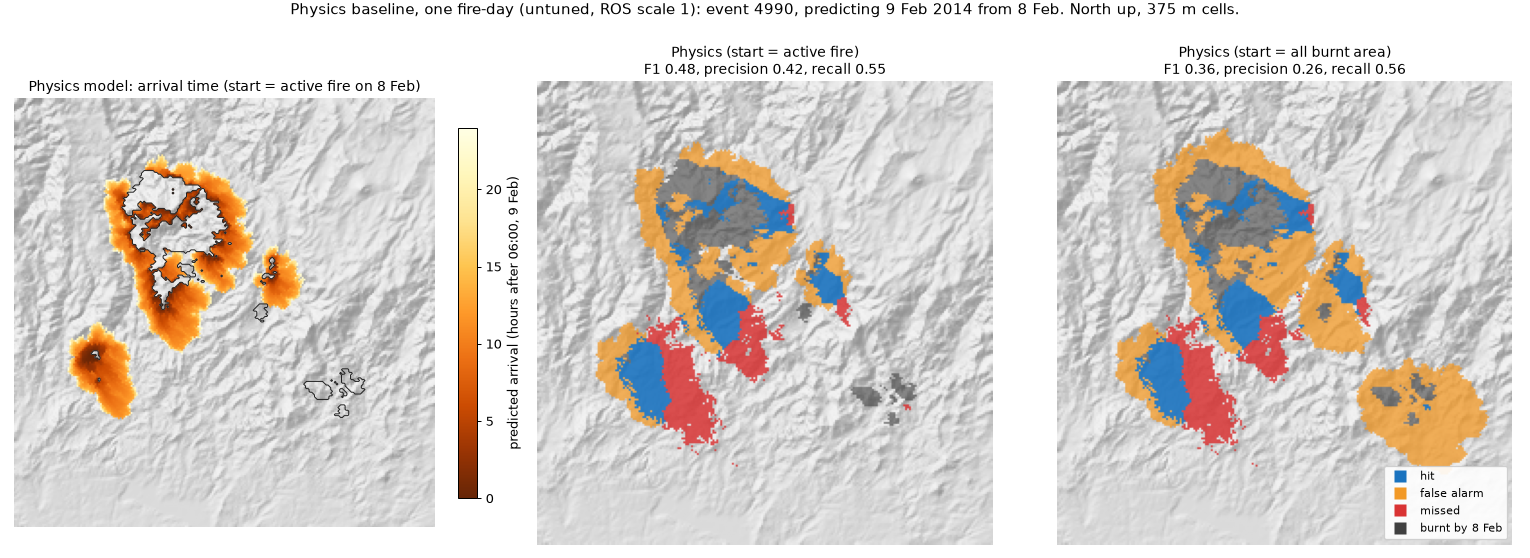
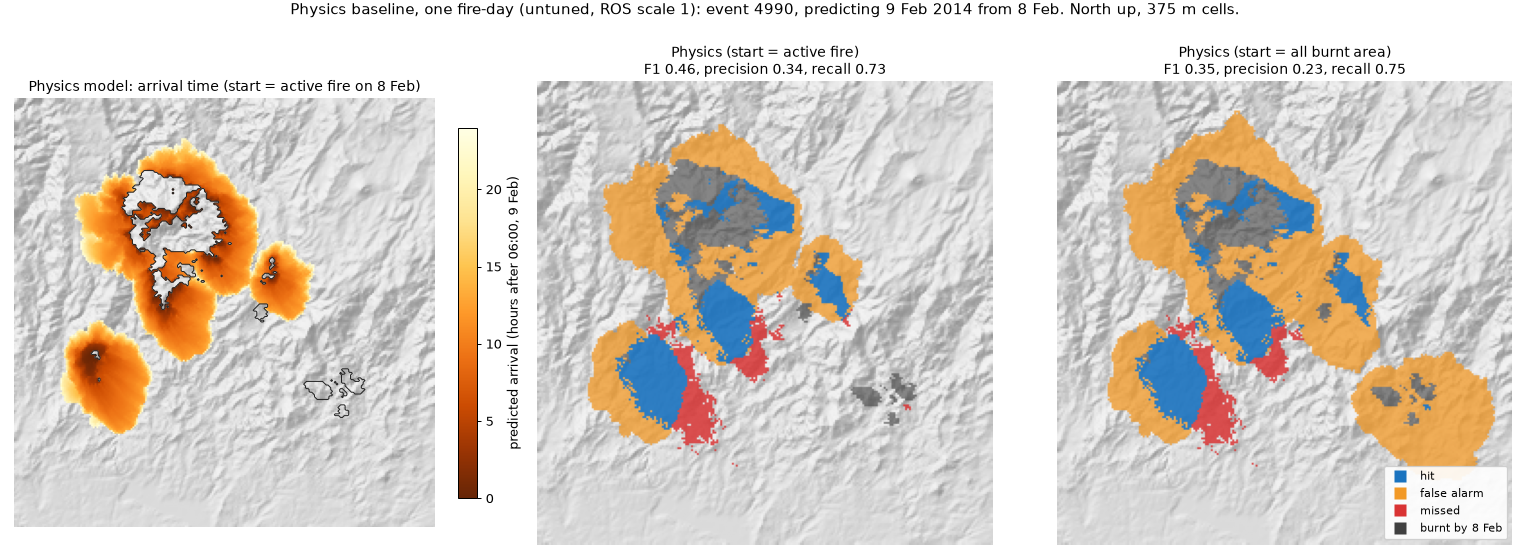
Physics: wait out zero-spread hours, precomputed directional rates, season CV
Fixes the fire being stopped permanently at cells that couldn't burn in the
current hour. Adds parallel season CV with the global ROS scale tuned on the
other folds.

diff --git a/src/vigil/physics.py b/src/vigil/physics.py
@@ -2,7 +2,9 @@
 
 Fire spreads over the 375 m grid as arrival times (a time-dependent shortest-
 path over a 16-neighbour stencil), through the 24 h of fire day D+1 (06:00 to
-06:00 local) with hourly BARRA-C2 weather. Cells reached within 24 h are the
+06:00 local) with hourly BARRA-C2 weather. When spread from a cell is
+impossible in the current hour (e.g. damp fuel at night), the fire waits for
+the next hour when it can spread. Cells reached within 24 h are the
 predicted new burn; earlier arrival = higher score (for PR-AUC).
 
 Assumptions (approved 2026-11-05, see CLAUDE.md):
@@ -35,6 +37,7 @@ Equations:
 
 Usage:
   python -m vigil.physics example     # one fire-day: predicted vs actual figure
+  python -m vigil.physics cv          # season CV, ROS scale tuned on the other folds
 """
 
 import heapq
@@ -46,7 +49,6 @@ from scipy.ndimage import map_coordinates
 
 from vigil.burn_history import CAP_YEARS, tslb
 from vigil.config import LOCAL_TZ, PROCESSED, RAW, ROOT, FIRE_DAY_START_HOUR
-from vigil.dataset import Data
 
 EPOCH = pd.Timestamp("2000-01-01")
 CELL_M = 375.0
@@ -66,7 +68,41 @@ def fuel_model(static: dict, sl) -> np.ndarray:
     return np.argmax(stack, axis=0)
 
 
-def hourly_weather(data: Data, day: int, sl) -> list[dict]:
+class Ctx:
+    """Light context for physics runs (no daily weather arrays), so several
+    worker processes fit in memory: grid geometry, fuel/terrain layers, and
+    one season of labels at a time."""
+
+    def __init__(self):
+        from pyproj import Transformer
+        from vigil.burn_history import grid
+        self.transform, self.H, self.W = grid()
+        st = xr.open_dataset(PROCESSED / "static.nc", engine="h5netcdf")
+        keep = [k for k in st.data_vars if k.startswith("fuel_")] + ["grad_x", "grad_y", "elevation"]
+        self.static = {k: st[k].values for k in keep}
+        ref = xr.open_dataset(sorted((RAW / "barra2" / "uas").glob("*.nc"))[0], engine="h5netcdf")
+        blat, blon = ref.lat.values, ref.lon.values
+        tr = self.transform
+        X, Y = np.meshgrid(tr.c + tr.a * (np.arange(self.W) + 0.5), tr.f + tr.e * (np.arange(self.H) + 0.5))
+        lon, lat = Transformer.from_crs(3111, 4326, always_xy=True).transform(X, Y)
+        self.wrow = ((lat - blat[0]) / (blat[1] - blat[0])).astype(np.float32)
+        self.wcol = ((lon - blon[0]) / (blon[1] - blon[0])).astype(np.float32)
+        x2, y2 = Transformer.from_crs(4326, 3111, always_xy=True).transform(lon, lat + 0.01)
+        self.gamma = np.arctan2(x2 - X, y2 - Y).astype(np.float32)
+        self._labels = xr.open_dataset(PROCESSED / "labels.nc", engine="h5netcdf")
+        self._season = {}
+
+    def season(self, s: int):
+        """(event, burn_day, uncertain_day) arrays for a season; keeps two seasons cached."""
+        if s not in self._season:
+            if len(self._season) >= 2:
+                self._season.pop(next(iter(self._season)))
+            L = self._labels.sel(season=s)
+            self._season[s] = (L.event.values, L.burn_day.values, L.uncertain_day.values)
+        return self._season[s]
+
+
+def hourly_weather(ctx, day: int, sl) -> list[dict]:
     """24 hourly fields (T, RH, U km/h, wind unit vector in grid axes) for fire day `day`."""
     start = (EPOCH + pd.Timedelta(days=day) + pd.Timedelta(hours=FIRE_DAY_START_HOUR)) \
         .tz_localize(LOCAL_TZ).tz_convert("UTC").tz_localize(None)
@@ -79,7 +115,7 @@ def hourly_weather(data: Data, day: int, sl) -> list[dict]:
             cache[key] = xr.open_dataset(RAW / "barra2" / v / f"{key[1]}.nc", engine="h5netcdf")[v]
         return cache[key]
 
-    rr, cc, g = data.wrow[sl], data.wcol[sl], data.gamma[sl]
+    rr, cc, g = ctx.wrow[sl], ctx.wcol[sl], ctx.gamma[sl]
     out = []
     for ts in hours:
         f = {v: map_coordinates(month(v, ts).sel(time=ts).values.astype(np.float32), [rr, cc],
@@ -126,62 +162,79 @@ def head_ros(w: dict, model: np.ndarray, tsf: np.ndarray, month: int) -> np.ndar
     return np.where(model == NONE, 0.0, ros).astype(np.float32)
 
 
-def simulate(data: Data, season: int, event: int, D: int, r0, r1, c0, c1,
-             start: str = "active", scale: float = 1.0, hours: float = 24.0):  # active: see CLAUDE.md
-    """Arrival time (h from 06:00 on D+1) per cell; inf = not reached."""
+STEPS = [(dr, dc, float(np.hypot(dr, dc)) * CELL_M, dc / np.hypot(dr, dc), -dr / np.hypot(dr, dc))
+         for dr, dc in STENCIL]
+
+
+def prepare(ctx, season: int, event: int, D: int, r0, r1, c0, c1, start: str = "active") -> dict:
+    """Everything for one fire-day that doesn't depend on the ROS scale: start
+    cells, dead burnt cells, and the spread rate (m/h, scale 1) from each cell
+    in each of the 16 stencil directions for each of the 24 hours."""
     sl = (slice(r0, r1), slice(c0, c1))
-    L = data.labels.sel(season=season)
-    ev, bd = L.event.values[sl], L.burn_day.values[sl]
-    own = ev == event
-    burnt = own & (bd > 0) & (bd <= D)
-    src = own & (bd == D) if start == "active" else burnt
+    ev, bd, _ = ctx.season(season)
+    own = ev[sl] == event
+    burnt = own & (bd[sl] > 0) & (bd[sl] <= D)
+    src = own & (bd[sl] == D) if start == "active" else burnt
     if not src.any():
         src = burnt
-    model = fuel_model(data.static, sl)
+    model = fuel_model(ctx.static, sl)
     tsf = tslb(season, EPOCH + pd.Timedelta(days=D), event)[sl]
-    gx, gy = data.static["grad_x"][sl], data.static["grad_y"][sl]
+    gx, gy = ctx.static["grad_x"][sl], ctx.static["grad_y"][sl]
     month = (EPOCH + pd.Timedelta(days=D + 1)).month
-    wx = hourly_weather(data, D + 1, sl)
-    ros = [head_ros(w, model, tsf, month) * scale for w in wx]
-    lb = [np.minimum(1 + 0.0012 * w["U"] ** 2.154, 8.0) for w in wx]
-    ecc = [np.sqrt(1 - 1 / b ** 2) for b in lb]
+    wx = hourly_weather(ctx, D + 1, sl)
+    slope_f = [np.exp(0.069 * np.clip(np.degrees(np.arctan(gx * ex + gy * ey)), -20, 30))
+               for _, _, _, ex, ey in STEPS]
+    rate = np.zeros((24, len(STEPS)) + burnt.shape, np.float32)
+    for h, w in enumerate(wx):
+        R = head_ros(w, model, tsf, month)
+        e = np.sqrt(1 - 1 / np.minimum(1 + 0.0012 * w["U"] ** 2.154, 8.0) ** 2)
+        for k, (_, _, _, ex, ey) in enumerate(STEPS):
+            cos_phi = ex * w["ux"] + ey * w["uy"]
+            rate[h, k] = R * (1 - e) / (1 - e * cos_phi) * slope_f[k]
+    burnable = head_ros(wx[12], model, tsf, month) > 0
+    return {"src": src, "done": burnt & ~src, "burnt": burnt, "rate": rate,
+            "burnable": burnable, "model": model}
 
-    H, W = burnt.shape
-    arrival = np.full((H, W), np.inf, np.float32)
-    heap = []
-    for r, c in zip(*np.nonzero(src)):
+
+def run(prep: dict, scale: float = 1.0, hours: float = 24.0) -> np.ndarray:
+    """Arrival time (h after 06:00 on D+1) per cell; inf = not reached in `hours`."""
+    src, done, rate, burnable = prep["src"], prep["done"], prep["rate"], prep["burnable"]
+    H, W = src.shape
+    arrival = np.full((H, W), np.inf)
+    heap = [(0.0, int(r), int(c)) for r, c in zip(*np.nonzero(src))]
+    for _, r, c in heap:
         arrival[r, c] = 0.0
-        heap.append((0.0, r, c))
     heapq.heapify(heap)
-    done = burnt & ~src            # dead burnt area: can't burn again, doesn't spread
-    steps = [(dr, dc, np.hypot(dr, dc) * CELL_M, dc / np.hypot(dr, dc), -dr / np.hypot(dr, dc))
-             for dr, dc in STENCIL]
+    blocked = done | ~burnable
+    steps = [(k, dr, dc, dist) for k, (dr, dc, dist, _, _) in enumerate(STEPS)]
     while heap:
         t, r, c = heapq.heappop(heap)
         if t > arrival[r, c] or t > hours:
             continue
-        hr = min(int(t), 23)
-        R = ros[hr][r, c]
-        if R <= 0:
-            continue
-        e = ecc[hr][r, c]
-        ux, uy = wx[hr]["ux"][r, c], wx[hr]["uy"][r, c]
-        for dr, dc, dist, ex, ey in steps:
+        h0 = min(int(t), 23)
+        for k, dr, dc, dist in steps:
             rr, cc = r + dr, c + dc
-            if not (0 <= rr < H and 0 <= cc < W) or done[rr, cc]:
+            if rr < 0 or cc < 0 or rr >= H or cc >= W or blocked[rr, cc]:
                 continue
-            cos_phi = ex * ux + ey * uy
-            rate = R * (1 - e) / (1 - e * cos_phi)
-            slope_deg = np.degrees(np.arctan(gx[r, c] * ex + gy[r, c] * ey))
-            rate *= np.exp(0.069 * np.clip(slope_deg, -20, 30))
-            if ros[hr][rr, cc] <= 0:
-                continue
-            ta = t + dist / max(rate, 1e-3)
-            if ta < arrival[rr, cc]:
+            # If spread is impossible this hour (e.g. damp fuel at night), the
+            # fire waits for the first later hour when it can spread. The rate
+            # at departure is used for the whole step.
+            ta = np.inf
+            for h in range(h0, 24):
+                v = rate[h, k, r, c] * scale
+                if v > 0:
+                    ta = max(t, h) + dist / v
+                    break
+            if ta < arrival[rr, cc] and ta <= hours:  # noqa: E501
                 arrival[rr, cc] = ta
                 heapq.heappush(heap, (ta, rr, cc))
-    arrival[burnt] = np.inf        # only new burn is predicted
-    return arrival, model
+    arrival[prep["burnt"]] = np.inf        # only new burn is predicted
+    return arrival.astype(np.float32)
+
+
+def simulate(ctx, season, event, D, r0, r1, c0, c1, start="active", scale=1.0, hours=24.0):
+    prep = prepare(ctx, season, event, D, r0, r1, c0, c1, start)
+    return run(prep, scale, hours), prep["model"]
 
 
 def example() -> None:
@@ -191,10 +244,9 @@ def example() -> None:
     from matplotlib.colors import LightSource
     from scipy.ndimage import distance_transform_edt
 
-    data = Data()
+    data = Ctx()
     D = (pd.Timestamp("2014-02-08") - EPOCH).days
-    L = data.labels.sel(season=2014)
-    ev, bd = L.event.values, L.burn_day.values
+    ev, bd, un_all = data.season(2014)
     # East Gippsland event active on 8 Feb 2014 with the most new burn on 9 Feb.
     cand = pd.Series(ev[(bd == D + 1) & (ev >= 0)]).value_counts()
     event = int(cand.index[0])
@@ -206,7 +258,7 @@ def example() -> None:
     own = ev[sl] == event
     burnt = own & (bd[sl] > 0) & (bd[sl] <= D)
     actual = own & (bd[sl] == D + 1)
-    un = L.uncertain_day.values[sl]
+    un = un_all[sl]
     valid = ~burnt & ~((un > 0) & (un <= D + 1))
 
     import time
@@ -262,9 +314,129 @@ def example() -> None:
     print(f"-> {out}")
 
 
+# ---------------------------------------------------------------- season CV
+SCALES = [0.75, 1.0, 1.5, 2.0, 3.0]        # global ROS scale grid
+T_BIN = 0.25                                # arrival-time bins, hours
+N_T = int(24 / T_BIN) + 1                   # last bin = not reached in 24 h
+_CTX = None
+
+
+def _init_worker():
+    global _CTX
+    _CTX = Ctx()
+
+
+def _fire_event(task):
+    """All fire-days of one event: counts of positives/negatives per (scale,
+    band, arrival bin) over the scored cells, as in evaluate.py."""
+    from scipy.ndimage import distance_transform_edt
+    from vigil.evaluate import BANDS, PAD
+    season, event, days = task
+    ev, bd, un = _CTX.season(season)
+    r, c = np.nonzero(ev == event)
+    r0, r1 = max(r.min() - PAD, 0), min(r.max() + PAD + 1, _CTX.H)
+    c0, c1 = max(c.min() - PAD, 0), min(c.max() + PAD + 1, _CTX.W)
+    E, B, U = ev[r0:r1, c0:c1], bd[r0:r1, c0:c1], un[r0:r1, c0:c1]
+    own = E == event
+    out = []
+    for D, fold in days:
+        burnt = own & (B > 0) & (B <= D)
+        if not burnt.any():
+            continue
+        pos = own & (B == D + 1)
+        other = (E >= 0) & ~own & (B > 0) & (B <= D + 1)
+        valid = ~burnt & ~((U > 0) & (U <= D + 1)) & ~other
+        band = np.digitize(distance_transform_edt(~burnt), BANDS, right=True)
+        prep = prepare(_CTX, season, event, D, r0, r1, c0, c1, start="active")
+        P = np.zeros((len(SCALES), 3, N_T))
+        N = np.zeros((len(SCALES), 3, N_T))
+        for i, sc in enumerate(SCALES):
+            arr = run(prep, sc)
+            b = np.where(np.isfinite(arr), np.minimum((arr / T_BIN).astype(int), N_T - 2), N_T - 1)
+            for k in range(3):
+                sel = valid & (band == k)
+                P[i, k] = np.bincount(b[sel & pos], minlength=N_T)
+                N[i, k] = np.bincount(b[sel & ~pos], minlength=N_T)
+        out.append((fold, P, N))
+    return out
+
+
+def cv(workers: int = 5) -> None:
+    """Physics baseline in the same season CV as the other baselines; the ROS
+    scale is chosen on the other 4 folds (pooled F1 at the 24 h cutoff)."""
+    import time
+    from concurrent.futures import ProcessPoolExecutor
+    from vigil.evaluate import BAND_NAMES
+    w = pd.read_parquet(PROCESSED / "windows.parquet")
+    w = w[w.fold != "test"]
+    wx_days = set((pd.to_datetime(xr.open_dataset(PROCESSED / "weather_daily.nc",
+                   engine="h5netcdf").day.values) - EPOCH).days)
+    fd = w.drop_duplicates(["season", "event", "day"])
+    fd = fd[fd.day.isin(wx_days) & (fd.day + 1).isin(wx_days)]
+    tasks = [(int(s), int(e), [(int(d), int(f)) for d, f in zip(g.day, g.fold)])
+             for (s, e), g in fd.groupby(["season", "event"])]
+    tasks.sort(key=lambda t: -len(t[2]))          # long events first, for load balance
+    P = np.zeros((5, len(SCALES), 3, N_T))
+    N = np.zeros((5, len(SCALES), 3, N_T))
+    t0, done = time.time(), 0
+    with ProcessPoolExecutor(workers, initializer=_init_worker) as pool:
+        for res in pool.map(_fire_event, tasks):
+            for fold, p_, n_ in res:
+                P[fold] += p_
+                N[fold] += n_
+                done += 1
+            if done and done % 100 < len(res):
+                print(f"  {done}/{len(fd)} fire-days, {(time.time() - t0) / 60:.0f} min", flush=True)
+    np.savez(PROCESSED / "physics_counts.npz", P=P, N=N, scales=SCALES)
+    report_cv(P, N)
+
+
+def report_cv(P, N) -> None:
+    from vigil.evaluate import BAND_NAMES
+    reached = N_T - 1                              # bins 0..N_T-2 = reached within 24 h
+
+    def f1_prec_rec(p, n):
+        tp, fp, P_ = p[:reached].sum(), n[:reached].sum(), p.sum()
+        prec, rec = tp / max(tp + fp, 1), tp / max(P_, 1)
+        return 2 * prec * rec / max(prec + rec, 1e-12), prec, rec
+
+    def ap(p, n):
+        tp, fp = np.cumsum(p), np.cumsum(n)
+        prec, rec = tp / np.maximum(tp + fp, 1), tp / max(p.sum(), 1)
+        return float(np.sum(np.diff(np.concatenate([[0], rec])) * prec))
+
+    rows = []
+    for f in range(5):
+        others = [g for g in range(5) if g != f]
+        f1_train = [f1_prec_rec(P[others, i].sum((0, 1)), N[others, i].sum((0, 1)))[0]
+                    for i in range(len(SCALES))]
+        i = int(np.argmax(f1_train))
+        p, n = P[f, i].sum(0), N[f, i].sum(0)
+        f1, prec, rec = f1_prec_rec(p, n)
+        row = {"model": "physics", "fold": f, "scale": SCALES[i], "F1": f1, "IoU": f1 / (2 - f1),
+               "precision": prec, "recall": rec, "PR_AUC": ap(p, n)}
+        for k, name in enumerate(BAND_NAMES):
+            fb, _, rb = f1_prec_rec(P[f, i, k], N[f, i, k])
+            row[f"F1 {name}"], row[f"recall {name}"] = fb, rb
+        rows.append(row)
+    r = pd.DataFrame(rows)
+    r.to_csv(PROCESSED / "physics_cv.csv", index=False)
+    print(r.round(3).to_string(index=False))
+    # Comparison with the other baselines (mean +- sd over the 5 folds).
+    base = pd.read_csv(PROCESSED / "baseline_cv.csv")
+    pix = pd.read_csv(PROCESSED / "pixel_baselines_cv.csv")
+    allr = pd.concat([base, pix[pix.model == "logreg"], r], ignore_index=True)
+    cols = ["F1", "IoU", "precision", "recall", "PR_AUC", "F1 <=6 km", "F1 6-24 km", "F1 >24 km",
+            "recall 6-24 km", "recall >24 km"]
+    summ = allr.groupby("model")[cols].agg(["mean", "std"]).round(3)
+    summ.to_csv(PROCESSED / "physics_vs_baselines.csv")
+    print(summ.T.to_string())
+
+
 if __name__ == "__main__":
     import argparse
     parser = argparse.ArgumentParser(description=__doc__.split("\n")[0])
-    parser.add_argument("cmd", choices=["example"])
-    parser.parse_args()
-    example()
+    parser.add_argument("cmd", choices=["example", "cv"])
+    parser.add_argument("--workers", type=int, default=5)
+    a = parser.parse_args()
+    example() if a.cmd == "example" else cv(a.workers)

diff --git a/CLAUDE.md b/CLAUDE.md
@@ -121,6 +121,9 @@ Download scripts are in `src/vigil/data/`; settings are in `src/vigil/config.py`
 - Finding (random forest, 2026-11-05, timeboxed check): not a bug. Class order is correct (`classes_` = [False, True], column 1 = fire); scores aren't inverted (training ROC-AUC 0.986); features and labels line up (active fire in the 3×3 neighbourhood: 22.6% of positives vs 0.1% of negatives). The forest fits its training seasons (depth 12: best F1 0.33–0.35, weighted PR-AUC 0.23, twice logistic regression) but doesn't transfer: held-out best possible F1 is 0.09–0.10 (PR-AUC ~0.03) on folds 0 and 2, and shallower forests (depth 4–6, leaf 50–200) are worse on both training and held-out data. Its top features are fuel shares and temperature, not the fire neighbourhood; with `max_features="sqrt"` only ~17 of 288 features are offered per split, so the 18 fire-neighbourhood features are rarely used and the forest learns season-specific fuel/weather patterns. Huot's random forest beat logistic regression under a random-week split (the same seasons in train and test), which hides this. Recorded as a finding; random forest dropped from the baseline list. (The earlier "training F1 as low as held-out" came from the depth-4 forest the inner tuning picked, scored at a threshold carried over from other models.)
 - 2026-11-05: Physics baseline built (`src/vigil/physics.py`), with the approved assumptions. One-fire-day check, before any tuning (ROS scale 1), predicting 9 Feb 2014 from 8 Feb for the East Gippsland fire (`docs/figures/physics_example_2014-02-09.png`): starting from active fire on D, F1 0.48 (precision 0.42, recall 0.55); starting from all burnt area, F1 0.36; active-fire persistence on the same day 0.14. About 4 s per fire-day. Most misses are further downwind than predicted (spread rate too low before tuning); starting from all burnt area adds false alarms around dead fire. Starting point: active fire on D (decided 2026-11-05, replacing "all burnt area" from the approved plan). Why: in the CV baselines most of the burnt perimeter is dead (persistence from active fire F1 0.209 vs 0.139 from all burnt area), and on the example day starting from all burnt area adds false alarms around dead fire (F1 0.36 vs 0.48). Burnt cells are non-burnable but don't spread.
 
+- 2026-11-05: Physics fixes before CV: (1) the fire can now wait out hours when spread is impossible (e.g. damp grass at night) instead of being stopped permanently; the first version skipped a neighbour forever if it couldn't burn at that hour. (2) Spread rates in all 16 directions × 24 hours are precomputed per fire-day, so ROS scales reuse them. Corrected example (9 Feb 2014): F1 0.46, precision 0.34, recall 0.73 at scale 1 (it now over-predicts).
+- 2026-11-05: Physics CV (`python -m vigil.physics cv`): same folds, scored cells and distance bands as the other baselines; 5 worker processes with a light context (~1 GB each). Global ROS scale from {0.75, 1, 1.5, 2, 3}, chosen per held-out fold on the other 4 folds by pooled F1 at the natural 24 h cutoff (arrival times aren't exactly rescalable because weather changes hourly, so each scale is a separate run). PR-AUC ranks cells by arrival time. Outputs: `physics_cv.csv`, `physics_vs_baselines.csv`, `physics_counts.npz`.
+
 ## Website design notes
 From Rishi's feedback on the first East Gippsland animation (2026-11-05):
 - **Smooth, not jumpy:** animate between days (new burn fades in or grows outward), no hard frame-to-frame jumps.
